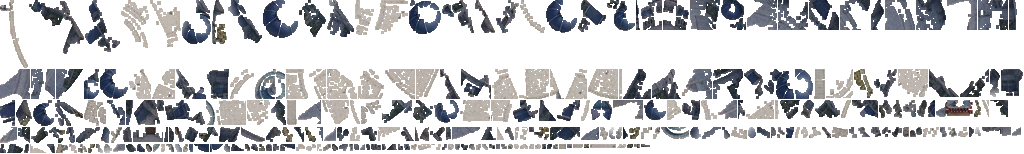
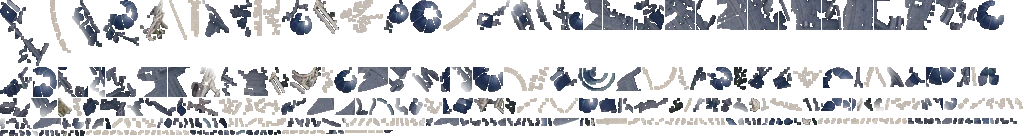
feat(flight): 聖王廳逐類別捏高度＋米白立面；薇拉馮德試作第二座 — ver -205
聖王廳（holysee_classes）
高度改成**按類別捏**，不從圖上量：圓頂 0.50、尖塔 1.00、環廊 0.28（×planTall 100）。
· 圓頂＝藍（21.6%）、尖塔＝最亮 20% 且排除藍（4.8%）、環廊＝其餘（3.8%）。
· 廣場＝其餘裡最大的連通區（66165px），是地面，不生量體。
· 逐類別各自做連通標記：混在一起做的話一塊會橫跨圓頂與環廊，p80 把兩者
  抹成一個中間值，階梯就不見了。
· 立面改米白（wallCol，逐城可覆寫）：白石建築套一般城那個「屋瓦陰影」暗色
  會變成一團黑。不上貼圖 —— 一面牆常常只有 3~8px 高，石紋進去只是雜訊。

薇拉馮德試作（1005,760）
舊的那座不動（完成度高）。新的是內陸：實測半徑 50 內河道 0px、海 0px，
最近的河在 80px 外 —— 所以不做水域搜尋、planRot 取 0，插畫自帶的 19.6% 水域
會被挖成內陸湖，實際看起來是湖畔城而不是港。

diff --git a/flight/index.html b/flight/index.html
@@ -364,7 +364,8 @@ const SETTLEMENTS = [
        要再高就得先讓量體改走多邊形（街廓拉伸），不能靠位移網格頂點。 */
   { n:'聖王廳', x:934,  y:606, t:'city2', f:'church',
     plan:'city/holysee_plan.webp', planH:'city/holysee_h.webp',
-    planW:1100, planRot:0.0, planTall:100, noWater:true, noLamps:true },
+    planW:1100, planRot:0.0, planTall:100, noWater:true, noLamps:true,
+    wallCol:'rgba(226,219,198,0.50)' },
   { n:'大教堂城',     x:1224, y:581, t:'city2', f:'church' },
   { n:'曙光城',       x:1373, y:581, t:'city3', f:'church' },
   { n:'石櫃城',       x:530,  y:311, t:'city2', f:'empire' },
@@ -422,6 +423,15 @@ const SETTLEMENTS = [
        是外海，路修不出去）。城外的路要從這些方位延伸出去，街道才不會一出
        圖面就斷掉。 */
     spurs:[3.023,-2.684,-1.951,-1.235,0.143,0.650,1.086] },
+  /* ── 試作：薇拉馮德港的第二座（Ray 指定 1005,760）─────────────────
+     ⚠ 這是**試看用的**，舊的那座完成度高、先不拆。要拆的時候記得一起清掉
+       build_city.py 的 JOBS 與 PLACES 名牌。
+     ⚠ 這裡是內陸：實測 (1005,760) 半徑 50 內河道 0 px、海 0 px（最近的河在
+       80px 外）。所以不做水域搜尋、planRot 取 0 —— 沒有海岸線可對。
+       插畫自帶 19.6% 的水域會被「地形遷就插畫」挖成內陸湖，港是旱港。 */
+  { n:'薇拉馮德港·試', x:1005, y:760, t:'city1', f:'empire',
+    plan:'city/velafonte_plan.webp', planH:'city/velafonte_h.webp',
+    planW:1050, planRot:0.0, planTall:50 },
   /* ⚠ planTall 別給大：這個引擎的縱向投影比橫向大約 2.9 倍
      （scaleH·syk ≈ 558 對 W/2 = 195）。
      ⚠ 這裡原本夾在 26：舊版抬的是**共用的**網格頂點，抬高等於把紋理整片
@@ -869,7 +879,7 @@ function buildSettlements(){
     });
     s.plan=S.plan||null; s.planW=S.planW||0; s.planRot=S.planRot||0;
     s.planH=S.planH||null; s.planTall=S.planTall||0;
-    s.noWater=!!S.noWater; s.noLamps=!!S.noLamps;
+    s.noWater=!!S.noWater; s.noLamps=!!S.noLamps; s.wallCol=S.wallCol||null;
     s.mx=S.x; s.my=S.y; s.gh=(S.gh!=null?S.gh:CLOUD_H); return s;
   });
   return settleCache;
@@ -3906,7 +3916,11 @@ function drawSettlements3D(scaleH,horizon,sinp,cosp){
       const jy0=zdy>0?NV-1:0, jys=zdy>0?-1:1;
       /* 立面的顏色整批只設一次：fillStyle 每次都要重新解析字串，
          而這個迴圈近距離會跑上千次。 */
-      CFB.fillStyle='rgba(34,30,26,0.62)';
+      /* ⚠ 立面顏色可逐城覆寫：一般城的牆是「屋瓦陰影」，暗色讀成牆在陰影裡；
+         聖王廳是白石建築，同一個暗色會讓整座聖座變成一團黑。米白＋較低的
+         不透明度讓它讀成「受光的石牆」。
+         ⚠ 不上貼圖：一面牆常常只有 3~8px 高，石紋進去只是雜訊。 */
+      CFB.fillStyle=o.s.wallCol||'rgba(34,30,26,0.62)';
       const row=NU+1;
       for(let ky2=0;ky2<NV;ky2++){
         const jy=jy0+jys*ky2;

diff --git a/config.js b/config.js
@@ -8,7 +8,7 @@
 
 /* 版本號：顯示於診斷 HUD（首頁連點團徽 5 下開啟），每次部署遞增尾碼——
  *  用來確認手機（尤其 iOS 主畫面 App 的頑固快取）實際跑到的是哪一版。 */
-export const VERSION = 'ver 2026.08.19-204';
+export const VERSION = 'ver 2026.08.19-205';
 
 export const GAME_CONFIG = {
 

diff --git a/flight/build_city.py b/flight/build_city.py
@@ -80,9 +80,7 @@ JOBS = [{
     'src': 'holysee_topdown.png',
     'unsquash': 1.10,      # 已是頂視圖：只補殘餘的縱向壓縮（外框長寬比實測 1.102）
     'nowater': True,       # 藍色圓頂不是水
-    # ⚠ 試過 'texture'（局部標準差）想把白色尖塔也抓成街廓 —— 是退步：整圈環廊
-    #   連成一個 33000px 的連通區，被 30px 格硬切成方塊，圓頂反而消失。
-    #   'dark' 至少讓深藍圓頂各自立起來。真正的尖塔要等 Ray 的灰階高度圖。
+    'classes': 'holysee',  # 圓頂／尖塔／環廊逐類別給固定高度，見 holysee_classes
     'dst': 'holysee_plan.webp',
     'hdst': 'holysee_h.webp',
     'mdst': 'holysee_mass.webp', 'jdst': 'holysee_mass.json',
@@ -130,48 +128,54 @@ POLY_MAX = 12      # 單一街廓的頂點數上限
 ATLAS_PAD = 1
 
 
-def extract_blocks(rgb, al, built, hm, name, mode='dark'):
-    """回傳 (blocks, atlas_image)。blocks 是 dict 列表，座標都在插畫像素空間。
+def holysee_classes(rgb, al, built):
+    """聖王廳專用的分類：圓頂／尖塔／環廊，各給一個固定高度（0..1）。
 
-    mode='dark'    密集市街：街道是**亮**的網、街廓是暗的塊 → 取「比鄰域暗」。
-    mode='texture' 聖王廳這種「大片平坦廣場 ＋ 四周建築」：廣場與白色尖塔都亮，
-                   亮度分不開。改用**局部紋理能量**（局部標準差）—— 廣場是平滑的
-                   鋪面（低），建築有柱列、窗、圓頂（高）。
-                   ⚠ 非用不可：'dark' 在聖王廳只會抓到深藍色的圓頂，白色尖塔
-                     因為亮而被歸成「街道」，結果整圈尖塔立不起來。
+    ⚠ 為什麼不沿用一般城的「比鄰域暗＝街廓」：那條只抓得到深藍色的圓頂，
+      白色尖塔因為**亮**而被歸成街道，整圈尖塔立不起來。
+    ⚠ 也不能用亮度硬切：廣場也是淺色石材。但實測廣場落在中間調
+      （lum 中位 ~150），尖塔是最亮的一截 —— 取最亮 20% 就切得乾淨，
+      而且切出來全是小塊（114 個，最大不到 2000px），沒有一塊是廣場。
+    高度是**捏的**，不是從圖上量的：圓頂 0.50、尖塔 1.00、環廊 0.28
+    （乘上 index.html 的 planTall=100 就是世界單位）。
     """
+    R, G, B = rgb[:, :, 0], rgb[:, :, 1], rgb[:, :, 2]
     lum = (rgb * np.array([0.299, 0.587, 0.114])).sum(axis=2)
-    if mode == 'texture':
-        L8 = Image.fromarray(np.clip(lum, 0, 255).astype(np.uint8))
-        mu = np.asarray(L8.filter(ImageFilter.GaussianBlur(4.0))).astype(np.float32)
-        m2 = np.asarray(Image.fromarray(np.clip(lum * lum / 255, 0, 255).astype(np.uint8))
-                        .filter(ImageFilter.GaussianBlur(4.0))).astype(np.float32) * 255
-        sd = np.sqrt(np.maximum(0.0, m2 - mu * mu))
-        T = float(np.percentile(sd[built], 100.0 - ROOF_Q))
-        roof = (built & (sd > T)).astype(np.uint8)
-    else:
-        lo = np.asarray(Image.fromarray(np.clip(lum, 0, 255).astype(np.uint8))
-                        .filter(ImageFilter.GaussianBlur(10.0))).astype(np.float32)
-        hp = lum - lo
-        T = float(np.percentile(hp[built], ROOF_Q))
-        roof = (built & (hp <= T)).astype(np.uint8)
-    # 開運算去掉單像素雜訊；不做閉運算 —— 那會把窄街封起來，街廓就黏成一片
-    roof = cv2.morphologyEx(roof, cv2.MORPH_OPEN, np.ones((3, 3), np.uint8))
-    n, lab, st, _ = cv2.connectedComponentsWithStats(roof, 8)
+    dome = built & (B > R + 8) & (B > 60)
+    T = float(np.percentile(lum[built], 80.0))
+    spire = built & (~dome) & (lum > T)
+    spire = cv2.morphologyEx(spire.astype(np.uint8), cv2.MORPH_OPEN,
+                             np.ones((3, 3), np.uint8)).astype(bool)
+    rest = built & (~dome) & (~spire)
+    # 廣場＝rest 裡最大的那一塊連通區。它是地面，不生量體。
+    n, lab, st, _ = cv2.connectedComponentsWithStats(rest.astype(np.uint8), 8)
+    ring = rest.copy()
+    if n > 1:
+        big = 1 + int(np.argmax(st[1:, cv2.CC_STAT_AREA]))
+        ring = rest & (lab != big)
+        print('  聖王廳：廣場 %d px（不生量體）' % st[big, cv2.CC_STAT_AREA])
+    print('  聖王廳分類：圓頂 %.1f%% / 尖塔 %.1f%% / 環廊 %.1f%%'
+          % (100 * dome.mean(), 100 * spire.mean(), 100 * ring.mean()))
+    return [(spire, 1.00), (dome, 0.50), (ring, 0.28)]
 
-    # 大連通區再切：整座城若只有幾塊巨型街廓，拉伸出來是台地不是天際線。
-    # ⚠ 用格子切而不是分水嶺：格子的結果是確定性的、邊界筆直（街廓本來就方），
-    #   而分水嶺會依距離變換的雜訊給出蜿蜒的假邊界。
-    parts = []
+
+def _components(mask8):
+    """連通標記 → [(ox, oy, sub_bool)]。太大的連通區用格子再切。
+
+    ⚠ 用格子切而不是分水嶺：格子的結果是確定性的、邊界筆直（街廓本來就方），
+      而分水嶺會依距離變換的雜訊給出蜿蜒的假邊界。
+    """
+    out = []
+    n, lab, st, _ = cv2.connectedComponentsWithStats(mask8, 8)
     for i in range(1, n):
-        area = st[i, cv2.CC_STAT_AREA]
+        area = int(st[i, cv2.CC_STAT_AREA])
         if area < BLK_MIN:
             continue
         x0, y0 = int(st[i, cv2.CC_STAT_LEFT]), int(st[i, cv2.CC_STAT_TOP])
         w0, h0 = int(st[i, cv2.CC_STAT_WIDTH]), int(st[i, cv2.CC_STAT_HEIGHT])
         sub = (lab[y0:y0 + h0, x0:x0 + w0] == i)
         if area <= BLK_SPLIT:
-            parts.append((x0, y0, sub))
+            out.append((x0, y0, sub))
             continue
         for gy in range(0, h0, BLK_CELL):
             for gx in range(0, w0, BLK_CELL):
@@ -179,17 +183,23 @@ def extract_blocks(rgb, al, built, hm, name, mode='dark'):
                 cut[gy:gy + BLK_CELL, gx:gx + BLK_CELL] = sub[gy:gy + BLK_CELL, gx:gx + BLK_CELL]
                 if cut.sum() < BLK_MIN:
                     continue
-                # 切完可能碎成幾塊，各自成為一個街廓
                 cn, cl, cs, _ = cv2.connectedComponentsWithStats(cut.astype(np.uint8), 8)
                 for k in range(1, cn):
                     if cs[k, cv2.CC_STAT_AREA] < BLK_MIN:
                         continue
-                    parts.append((x0, y0, cl == k))
+                    out.append((x0, y0, cl == k))
+    return out
 
+
+def _finish(parts, rgb, al, hm, fixed, note):
+    """把連通區變成「多邊形 ＋ 高度 ＋ atlas 上的一格」。
+
+    fixed 為 None 時高度取 hm 在該塊裡的 p80；否則用 fixed[i] 那個固定值。
+    """
     blocks = []
-    for (ox, oy, sub) in parts:
-        m = sub.astype(np.uint8)
-        cnts, _ = cv2.findContours(m, cv2.RETR_EXTERNAL, cv2.CHAIN_APPROX_SIMPLE)
+    for n_i, (ox, oy, sub) in enumerate(parts):
+        cnts, _ = cv2.findContours(sub.astype(np.uint8), cv2.RETR_EXTERNAL,
+                                   cv2.CHAIN_APPROX_SIMPLE)
         if not cnts:
             continue
         c = max(cnts, key=cv2.contourArea)
@@ -204,15 +214,14 @@ def extract_blocks(rgb, al, built, hm, name, mode='dark'):
         ys, xs = np.where(sub)
         bx0, by0 = int(xs.min()), int(ys.min())
         bx1, by1 = int(xs.max()) + 1, int(ys.max()) + 1
-        # 高度：取 hm 在這塊裡的 p80。hm 帶著地標與塔的抬升，所以大教堂那幾塊
-        # 自然會比一般街廓高；一般街廓則落在 H_BUILT。
-        hv = float(np.percentile(hm[oy:oy + sub.shape[0], ox:ox + sub.shape[1]][sub], 80))
+        if fixed is None:
+            hv = float(np.percentile(hm[oy:oy + sub.shape[0], ox:ox + sub.shape[1]][sub], 80))
+        else:
+            hv = float(fixed[n_i])
         blocks.append({
             'poly': [(int(px) + ox, int(py) + oy) for [[px, py]] in ap],
             'bb': (int(bx0 + ox), int(by0 + oy), int(bx1 - bx0), int(by1 - by0)),
-            'h': hv,
-            'mask': sub,
-            'mo': (ox, oy),
+            'h': hv, 'mask': sub, 'mo': (ox, oy),
         })
 
     # ── Atlas ──────────────────────────────────────────────────────────
@@ -245,8 +254,38 @@ def extract_blocks(rgb, al, built, hm, name, mode='dark'):
         tile[:, :, 3] = tile[:, :, 3] * mk[by:by + bh, bx:bx + bw]
         atlas[ay:ay + bh, ax:ax + bw] = tile
         del b['mask'], b['mo']
-    print('  街廓 %d 塊（門檻 %.1f）→ atlas %dx%d' % (len(blocks), T, AW, AH))
+    print('  街廓 %d 塊%s → atlas %dx%d' % (len(blocks), note or '', AW, AH))
     return blocks, Image.fromarray(atlas, 'RGBA')
+
+
+def extract_blocks(rgb, al, built, hm, name, mode='dark', classes=None):
+    """回傳 (blocks, atlas_image)。blocks 是 dict 列表，座標都在插畫像素空間。
+
+    classes 有給就走「逐類別固定高度」（聖王廳）；否則依 mode 從圖上分街廓。
+    mode='dark' 密集市街：街道是**亮**的網、街廓是暗的塊 → 取「比鄰域暗」。
+
+    ⚠ 試過 mode='texture'（局部標準差）想在聖王廳把白色尖塔也抓成街廓 ——
+      是退步：整圈環廊連成一個 33000px 的連通區，被格子硬切成方塊，圓頂反而
+      消失。真正有效的是 holysee_classes 那種**逐類別**的分法。
+    """
+    if classes is not None:
+        parts, fixed = [], []
+        for (m, hv) in classes:
+            mm = cv2.morphologyEx(m.astype(np.uint8), cv2.MORPH_OPEN,
+                                  np.ones((3, 3), np.uint8))
+            for pc in _components(mm):
+                parts.append(pc)
+                fixed.append(hv)
+        return _finish(parts, rgb, al, hm, fixed, '（逐類別高度）')
+
+    lum = (rgb * np.array([0.299, 0.587, 0.114])).sum(axis=2)
+    lo = np.asarray(Image.fromarray(np.clip(lum, 0, 255).astype(np.uint8))
+                    .filter(ImageFilter.GaussianBlur(10.0))).astype(np.float32)
+    hp = lum - lo
+    T = float(np.percentile(hp[built], ROOF_Q))
+    roof = cv2.morphologyEx((built & (hp <= T)).astype(np.uint8), cv2.MORPH_OPEN,
+                            np.ones((3, 3), np.uint8))
+    return _finish(_components(roof), rgb, al, hm, None, '（門檻 %.1f）' % T)
 
 
 hmap = np.asarray(Image.open(HEIGHTMAP).convert('L')).astype(np.float32)
@@ -369,7 +408,9 @@ for J in JOBS:
     # ── 街廓量體 ──────────────────────────────────────────────────────
     # ⚠ 用**未糊**的 hm 取高度：上面那個 5.0 的模糊是舊版位移網格頂點時的必要
     #   妥協（相鄰頂點高差太大會把格子剪成長條）。稜柱各自獨立，不需要糊。
-    blocks, atlas = extract_blocks(rgb, al, built, hm, J['dst'], J.get('blockmode', 'dark'))
+    _cls = holysee_classes(rgb, al, built) if J.get('classes') == 'holysee' else None
+    blocks, atlas = extract_blocks(rgb, al, built, hm, J['dst'],
+                                   J.get('blockmode', 'dark'), _cls)
     atlas.save(os.path.join(CITY, J['mdst']), quality=QUALITY, method=6)
     json.dump({
         'w': W2, 'h': H2,
